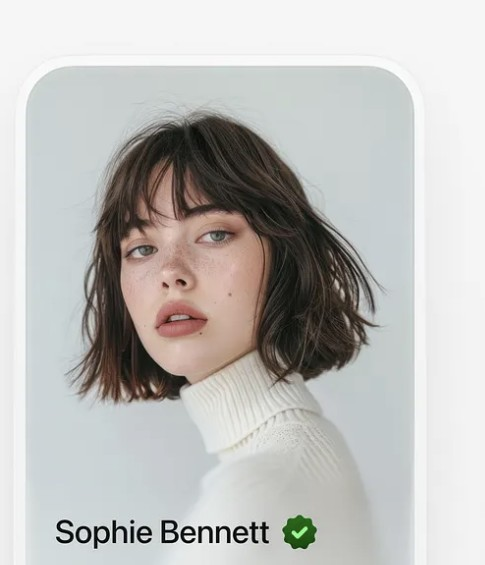
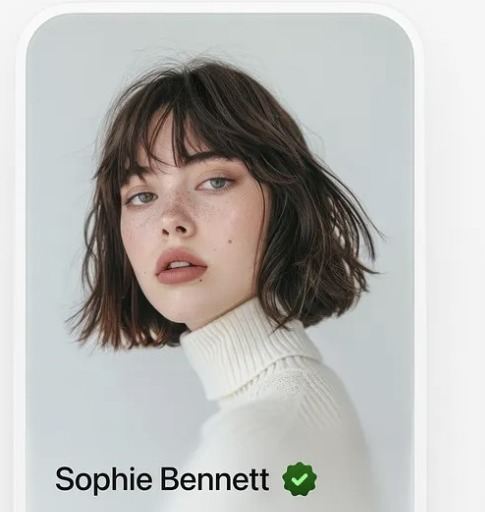
Fix ProfileCard NestedRadius borders and crop photo chrome

Changed region(s): [[0.0309, 0.0, 0.866, 0.8438], [0.0928, 0.9062, 0.5567, 0.9688], [0.5876, 0.9062, 0.6495, 0.9688]]

diff --git a/index.html b/index.html
@@ -980,7 +980,7 @@
     }
 
 
-    /* —— Profile cards (NestedRadius shell) —— */
+    /* —— Profile cards (NestedRadius shell: outer 40 = inner 24 + gap 16) —— */
     .profile-card {
       --pc-radius: 24px;
       width: 100%;
@@ -1000,12 +1000,18 @@
       background: #d8d4ce;
     }
 
+    /* Inset: photo recessed inside the 24px card (not flush — flush + same radius
+       made the top corners read square / double-border against the 40px stage). */
+    .profile-card--inset {
+      padding: 12px 12px 14px;
+    }
+
     .profile-card--inset .profile-card__photo {
-      border-radius: var(--pc-radius);
+      border-radius: 12px; /* nest inside card pad: ~24 − 12 */
     }
 
     .profile-card--inset .profile-card__body {
-      padding: 1rem 0.35rem 0.25rem;
+      padding: 0.85rem 0.15rem 0.1rem;
     }
 
     .profile-card__name {
@@ -1114,7 +1120,8 @@
       height: 100%;
       aspect-ratio: auto;
       z-index: 0;
-      border-radius: var(--pc-radius);
+      /* clip to card’s 24px via overflow:hidden — own radius fought the stage nest */
+      border-radius: 0;
     }
 
     .profile-card--fade::after {
@@ -1157,6 +1164,7 @@
     .profile-demo .stage {
       max-width: 300px;
       width: 100%;
+      overflow: hidden; /* keep NestedRadius outer curve; clip any square child paint */
       box-shadow: 0 1px 2px #0001, 0 10px 28px -14px #0002;
     }
 

diff --git a/ui-combo.html b/ui-combo.html
@@ -980,7 +980,7 @@
     }
 
 
-    /* —— Profile cards (NestedRadius shell) —— */
+    /* —— Profile cards (NestedRadius shell: outer 40 = inner 24 + gap 16) —— */
     .profile-card {
       --pc-radius: 24px;
       width: 100%;
@@ -1000,12 +1000,18 @@
       background: #d8d4ce;
     }
 
+    /* Inset: photo recessed inside the 24px card (not flush — flush + same radius
+       made the top corners read square / double-border against the 40px stage). */
+    .profile-card--inset {
+      padding: 12px 12px 14px;
+    }
+
     .profile-card--inset .profile-card__photo {
-      border-radius: var(--pc-radius);
+      border-radius: 12px; /* nest inside card pad: ~24 − 12 */
     }
 
     .profile-card--inset .profile-card__body {
-      padding: 1rem 0.35rem 0.25rem;
+      padding: 0.85rem 0.15rem 0.1rem;
     }
 
     .profile-card__name {
@@ -1114,7 +1120,8 @@
       height: 100%;
       aspect-ratio: auto;
       z-index: 0;
-      border-radius: var(--pc-radius);
+      /* clip to card’s 24px via overflow:hidden — own radius fought the stage nest */
+      border-radius: 0;
     }
 
     .profile-card--fade::after {
@@ -1157,6 +1164,7 @@
     .profile-demo .stage {
       max-width: 300px;
       width: 100%;
+      overflow: hidden; /* keep NestedRadius outer curve; clip any square child paint */
       box-shadow: 0 1px 2px #0001, 0 10px 28px -14px #0002;
     }
 
